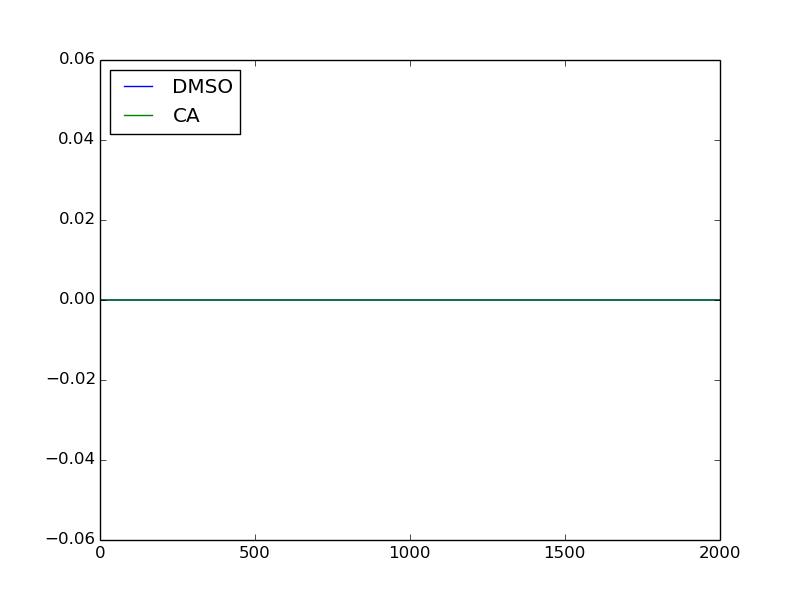
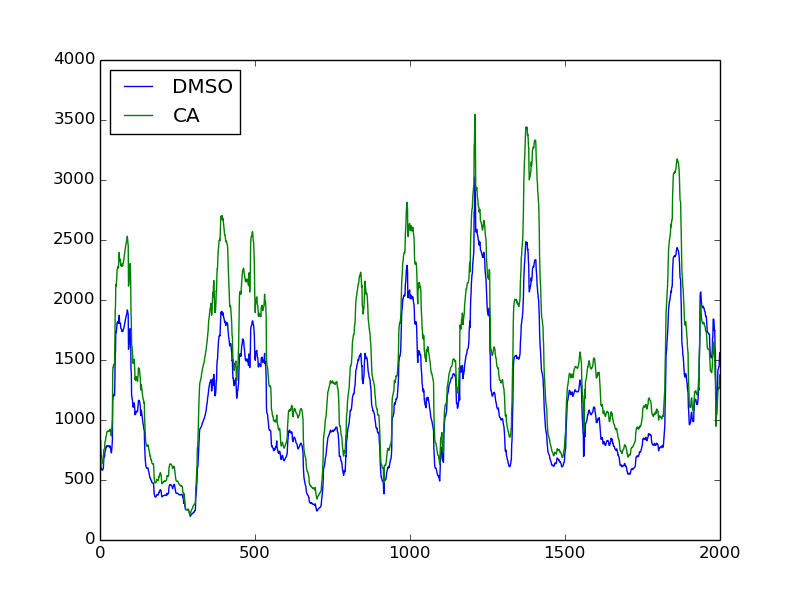
updates

diff --git a/src/metagene_TSS.py b/src/metagene_TSS.py
@@ -92,8 +92,11 @@ def run(file1,file2,file3):
             CAarray[i] += CAdict[gene][i]
             
     F = plt.figure()
-    plt.plot(DMSOarray)
-    plt.plot(CAarray)
+    x = np.arange(-1000,1000,1)
+    plt.plot(x,DMSOarray)
+    plt.plot(x,CAarray)
+    plt.set_xlabel('TSS')
+    plt.axvline(x=0.,color='k',ls='dashed')
     plt.legend(['DMSO', 'CA'], loc='upper left')
     plt.savefig(figout + '/metagene_TSS.png')
     
